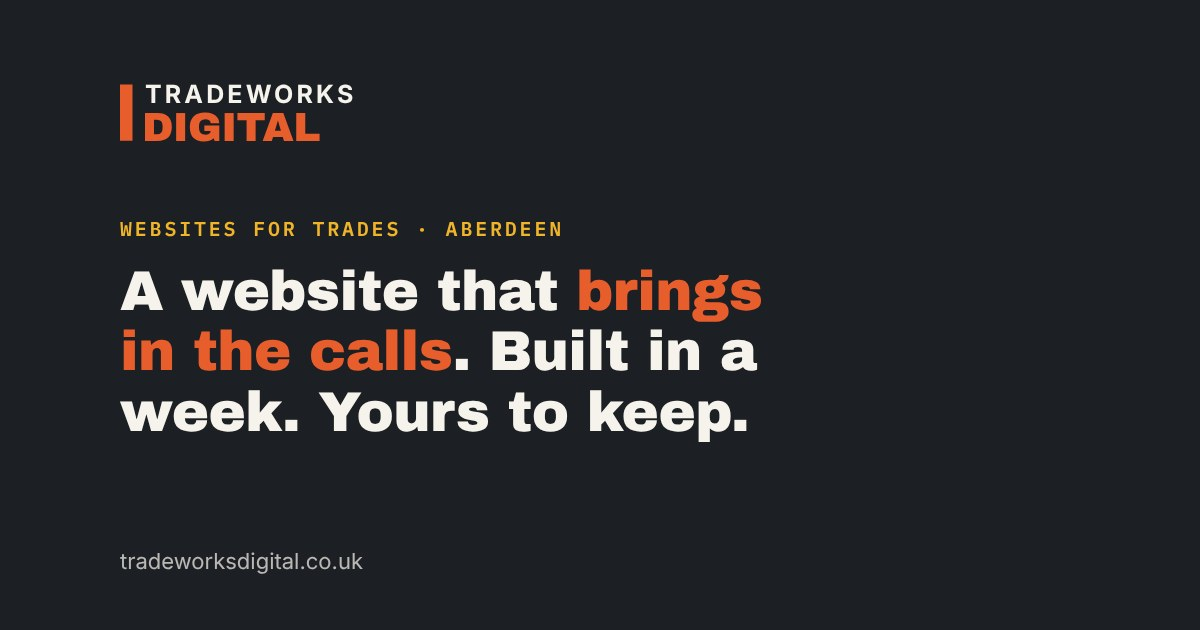
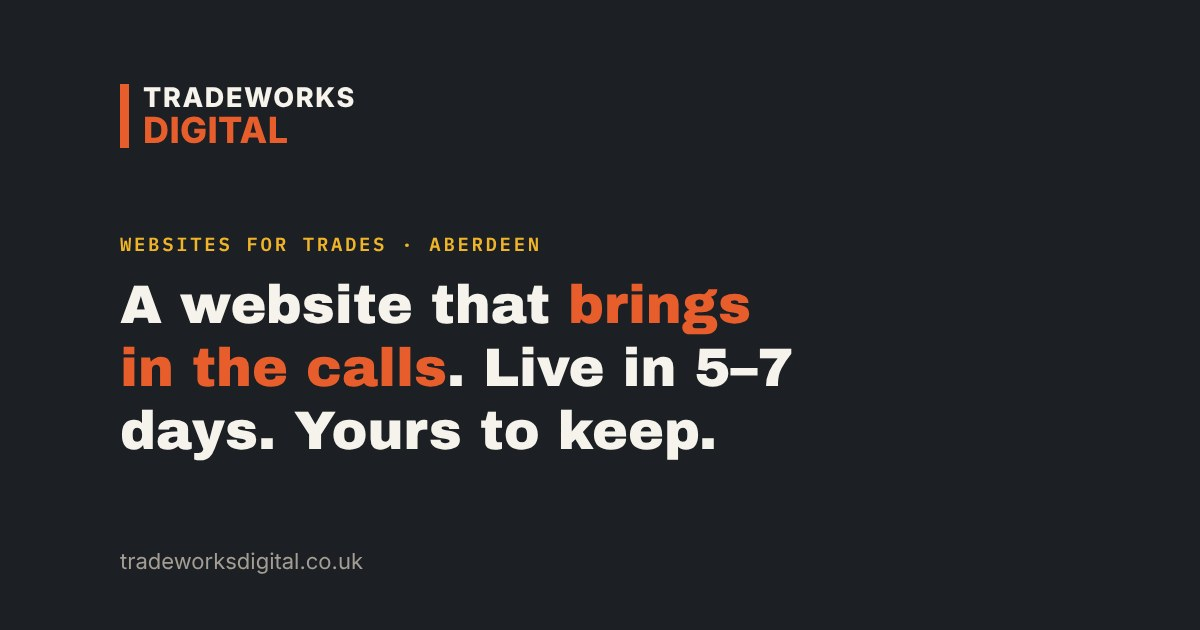
Live in 5-7 days everywhere (headline + share image); Terms: not VAT registered, portfolio only with permission
Claude-Session: https://claude.ai/code/session_01DWJCdSiaqVRzCy2SE1uxj9

Changed region(s): [[0.0925, 0.3317, 0.6783, 0.7238], [0.0925, 0.1206, 0.3083, 0.2413], [0.0925, 0.8746, 0.3083, 0.9048]]

diff --git a/index.html b/index.html
@@ -22,7 +22,7 @@
 <meta property="og:image" content="https://www.tradeworksdigital.co.uk/images/share.jpg">
 <meta property="og:image:width" content="1200">
 <meta property="og:image:height" content="630">
-<meta property="og:image:alt" content="Tradeworks Digital: a website that brings in the calls. Built in a week. Yours to keep.">
+<meta property="og:image:alt" content="Tradeworks Digital: a website that brings in the calls. Live in 5–7 days. Yours to keep.">
 <meta name="twitter:card" content="summary_large_image">
 <meta name="twitter:image" content="https://www.tradeworksdigital.co.uk/images/share.jpg">
 <meta name="twitter:title" content="Website Design for Trades in Aberdeen | Tradeworks Digital">
@@ -442,6 +442,7 @@
   .brand-strip p{font-size:16px; color:var(--ink-soft); max-width:none;}
   .brand-strip b{color:var(--ink);}
   .sf-legal{display:inline-flex; gap:20px; flex-wrap:wrap;}
+  .nw{white-space:nowrap;}
 </style>
 <script type="application/ld+json">
 {
@@ -531,8 +532,8 @@
     <div class="wrap hero-grid">
       <div>
         <span class="eyebrow">Website build · £397 flat price</span>
-        <h1>A website that <em>brings in the calls</em>. Built in a week. Yours to keep.</h1>
-        <p class="lede">One flat price of £397. Live in 5–7 days. We write it, build it and set it up on Google, so you can get back to the job. Based in Aberdeen, working with trades across the UK.</p>
+        <h1>A website that <em>brings in the calls</em>. Live in <span class="nw">5–7 days</span>. Yours to keep.</h1>
+        <p class="lede">One flat price of £397. We write it, build it and set it up on Google, so you can get back to the job. Based in Aberdeen, working with trades across the UK.</p>
         <div class="hero-ctas">
           <a href="#book" class="btn btn-primary">Book a Free Call <span class="arrow" aria-hidden="true">→</span></a>
           <a href="product.html#handover" class="btn btn-ghost">See What You Own</a>
@@ -541,7 +542,7 @@
           <span><svg viewBox="0 0 24 24" fill="none" stroke-width="2" aria-hidden="true"><path d="M3 11 12 4l9 7"/><path d="M5 10v10h14V10"/></svg> You own the site and the code</span>
           <span><svg viewBox="0 0 24 24" fill="none" stroke-width="2" aria-hidden="true"><path d="M6 6l12 12M18 6 6 18"/></svg> No contract</span>
           <span><svg viewBox="0 0 24 24" fill="none" stroke-width="2" aria-hidden="true"><path d="M4 19V9M10 19V5M16 19v-7M22 19H2"/></svg> Monthly report with the care plan</span>
-          <span><svg viewBox="0 0 24 24" fill="none" stroke-width="2" aria-hidden="true"><path d="M13 2 3 14h7l-1 8 10-12h-7l1-8Z"/></svg> Live in 5–7 days</span>
+          <span><svg viewBox="0 0 24 24" fill="none" stroke-width="2" aria-hidden="true"><path d="M13 2 3 14h7l-1 8 10-12h-7l1-8Z"/></svg> Domain in your name</span>
         </div>
       </div>
 

diff --git a/terms.html b/terms.html
@@ -22,7 +22,7 @@
 <meta property="og:image" content="https://www.tradeworksdigital.co.uk/images/share.jpg">
 <meta property="og:image:width" content="1200">
 <meta property="og:image:height" content="630">
-<meta property="og:image:alt" content="Tradeworks Digital: a website that brings in the calls. Built in a week. Yours to keep.">
+<meta property="og:image:alt" content="Tradeworks Digital: a website that brings in the calls. Live in 5–7 days. Yours to keep.">
 <meta name="twitter:card" content="summary_large_image">
 <meta name="twitter:image" content="https://www.tradeworksdigital.co.uk/images/share.jpg">
 <meta name="twitter:title" content="Terms of Business | Tradeworks Digital">
@@ -118,7 +118,7 @@
 
       <h2>Prices and payment</h2>
       <ul>
-        <li>Prices are fixed. The price on the offer is the price you pay for that package.</li>
+        <li>Prices are fixed. We are not VAT registered, so no VAT is added: the price on the offer is the price you pay.</li>
         <li>You pay <strong>50% as a deposit</strong> to hold your build slot. The other 50% is due when you approve the site, before it goes live.</li>
         <li>Build payments are by bank transfer, to the details on your invoice.</li>
         <li>The care plan is paid monthly in advance, by card or Direct Debit.</li>
@@ -159,7 +159,7 @@
         <li>Once the build is paid in full, you own the website, its code, the words, the logo and brand files we made for you, and your photos.</li>
         <li>Your domain is registered in your name from day one. Your Google Business Profile, Search Console and Google Analytics are set up with you as owner.</li>
         <li>Some building blocks are licensed from others, such as fonts and open-source code. You get the right to keep using them on your site.</li>
-        <li>We may show your site in our portfolio and case studies. Tell us if you'd rather we didn't.</li>
+        <li>We only show your site in our portfolio or case studies if you say yes. We'll ask you first.</li>
       </ul>
 
       <h2>What we need from you</h2>

diff --git a/blog-rented-vs-owned.html b/blog-rented-vs-owned.html
@@ -22,7 +22,7 @@
 <meta property="og:image" content="https://www.tradeworksdigital.co.uk/images/share.jpg">
 <meta property="og:image:width" content="1200">
 <meta property="og:image:height" content="630">
-<meta property="og:image:alt" content="Tradeworks Digital: a website that brings in the calls. Built in a week. Yours to keep.">
+<meta property="og:image:alt" content="Tradeworks Digital: a website that brings in the calls. Live in 5–7 days. Yours to keep.">
 <meta name="twitter:card" content="summary_large_image">
 <meta name="twitter:image" content="https://www.tradeworksdigital.co.uk/images/share.jpg">
 <meta name="twitter:title" content="Rented vs Owned: What Lead Sites Really Cost a Trade | Tradeworks Digital">

diff --git a/gcc-build-diary.html b/gcc-build-diary.html
@@ -22,7 +22,7 @@
 <meta property="og:image" content="https://www.tradeworksdigital.co.uk/images/share.jpg">
 <meta property="og:image:width" content="1200">
 <meta property="og:image:height" content="630">
-<meta property="og:image:alt" content="Tradeworks Digital: a website that brings in the calls. Built in a week. Yours to keep.">
+<meta property="og:image:alt" content="Tradeworks Digital: a website that brings in the calls. Live in 5–7 days. Yours to keep.">
 <meta name="twitter:card" content="summary_large_image">
 <meta name="twitter:image" content="https://www.tradeworksdigital.co.uk/images/share.jpg">
 <meta name="twitter:title" content="Build Diary: Moving a Car Dealer off Car Dealer 5 | Tradeworks Digital">

diff --git a/granite-city-cars.html b/granite-city-cars.html
@@ -22,7 +22,7 @@
 <meta property="og:image" content="https://www.tradeworksdigital.co.uk/images/share.jpg">
 <meta property="og:image:width" content="1200">
 <meta property="og:image:height" content="630">
-<meta property="og:image:alt" content="Tradeworks Digital: a website that brings in the calls. Built in a week. Yours to keep.">
+<meta property="og:image:alt" content="Tradeworks Digital: a website that brings in the calls. Live in 5–7 days. Yours to keep.">
 <meta name="twitter:card" content="summary_large_image">
 <meta name="twitter:image" content="https://www.tradeworksdigital.co.uk/images/share.jpg">
 <meta name="twitter:title" content="Case Study: Granite City Cars | Tradeworks Digital">

diff --git a/work.html b/work.html
@@ -22,7 +22,7 @@
 <meta property="og:image" content="https://www.tradeworksdigital.co.uk/images/share.jpg">
 <meta property="og:image:width" content="1200">
 <meta property="og:image:height" content="630">
-<meta property="og:image:alt" content="Tradeworks Digital: a website that brings in the calls. Built in a week. Yours to keep.">
+<meta property="og:image:alt" content="Tradeworks Digital: a website that brings in the calls. Live in 5–7 days. Yours to keep.">
 <meta name="twitter:card" content="summary_large_image">
 <meta name="twitter:image" content="https://www.tradeworksdigital.co.uk/images/share.jpg">
 <meta name="twitter:title" content="Our Work: Websites for Trades | Tradeworks Digital">

diff --git a/about.html b/about.html
@@ -22,7 +22,7 @@
 <meta property="og:image" content="https://www.tradeworksdigital.co.uk/images/share.jpg">
 <meta property="og:image:width" content="1200">
 <meta property="og:image:height" content="630">
-<meta property="og:image:alt" content="Tradeworks Digital: a website that brings in the calls. Built in a week. Yours to keep.">
+<meta property="og:image:alt" content="Tradeworks Digital: a website that brings in the calls. Live in 5–7 days. Yours to keep.">
 <meta name="twitter:card" content="summary_large_image">
 <meta name="twitter:image" content="https://www.tradeworksdigital.co.uk/images/share.jpg">
 <meta name="twitter:title" content="About the Founder | Tradeworks Digital">

diff --git a/privacy-policy.html b/privacy-policy.html
@@ -22,7 +22,7 @@
 <meta property="og:image" content="https://www.tradeworksdigital.co.uk/images/share.jpg">
 <meta property="og:image:width" content="1200">
 <meta property="og:image:height" content="630">
-<meta property="og:image:alt" content="Tradeworks Digital: a website that brings in the calls. Built in a week. Yours to keep.">
+<meta property="og:image:alt" content="Tradeworks Digital: a website that brings in the calls. Live in 5–7 days. Yours to keep.">
 <meta name="twitter:card" content="summary_large_image">
 <meta name="twitter:image" content="https://www.tradeworksdigital.co.uk/images/share.jpg">
 <meta name="twitter:title" content="Privacy Policy | Tradeworks Digital">

diff --git a/product.html b/product.html
@@ -22,7 +22,7 @@
 <meta property="og:image" content="https://www.tradeworksdigital.co.uk/images/share.jpg">
 <meta property="og:image:width" content="1200">
 <meta property="og:image:height" content="630">
-<meta property="og:image:alt" content="Tradeworks Digital: a website that brings in the calls. Built in a week. Yours to keep.">
+<meta property="og:image:alt" content="Tradeworks Digital: a website that brings in the calls. Live in 5–7 days. Yours to keep.">
 <meta name="twitter:card" content="summary_large_image">
 <meta name="twitter:image" content="https://www.tradeworksdigital.co.uk/images/share.jpg">
 <meta name="twitter:title" content="The Build Spec | Tradeworks Digital">

diff --git a/reviews.html b/reviews.html
@@ -22,7 +22,7 @@
 <meta property="og:image" content="https://www.tradeworksdigital.co.uk/images/share.jpg">
 <meta property="og:image:width" content="1200">
 <meta property="og:image:height" content="630">
-<meta property="og:image:alt" content="Tradeworks Digital: a website that brings in the calls. Built in a week. Yours to keep.">
+<meta property="og:image:alt" content="Tradeworks Digital: a website that brings in the calls. Live in 5–7 days. Yours to keep.">
 <meta name="twitter:card" content="summary_large_image">
 <meta name="twitter:image" content="https://www.tradeworksdigital.co.uk/images/share.jpg">
 <meta name="twitter:title" content="Client Reviews | Tradeworks Digital">

diff --git a/contact.html b/contact.html
@@ -22,7 +22,7 @@
 <meta property="og:image" content="https://www.tradeworksdigital.co.uk/images/share.jpg">
 <meta property="og:image:width" content="1200">
 <meta property="og:image:height" content="630">
-<meta property="og:image:alt" content="Tradeworks Digital: a website that brings in the calls. Built in a week. Yours to keep.">
+<meta property="og:image:alt" content="Tradeworks Digital: a website that brings in the calls. Live in 5–7 days. Yours to keep.">
 <meta name="twitter:card" content="summary_large_image">
 <meta name="twitter:image" content="https://www.tradeworksdigital.co.uk/images/share.jpg">
 <meta name="twitter:title" content="Contact Us | Tradeworks Digital">
